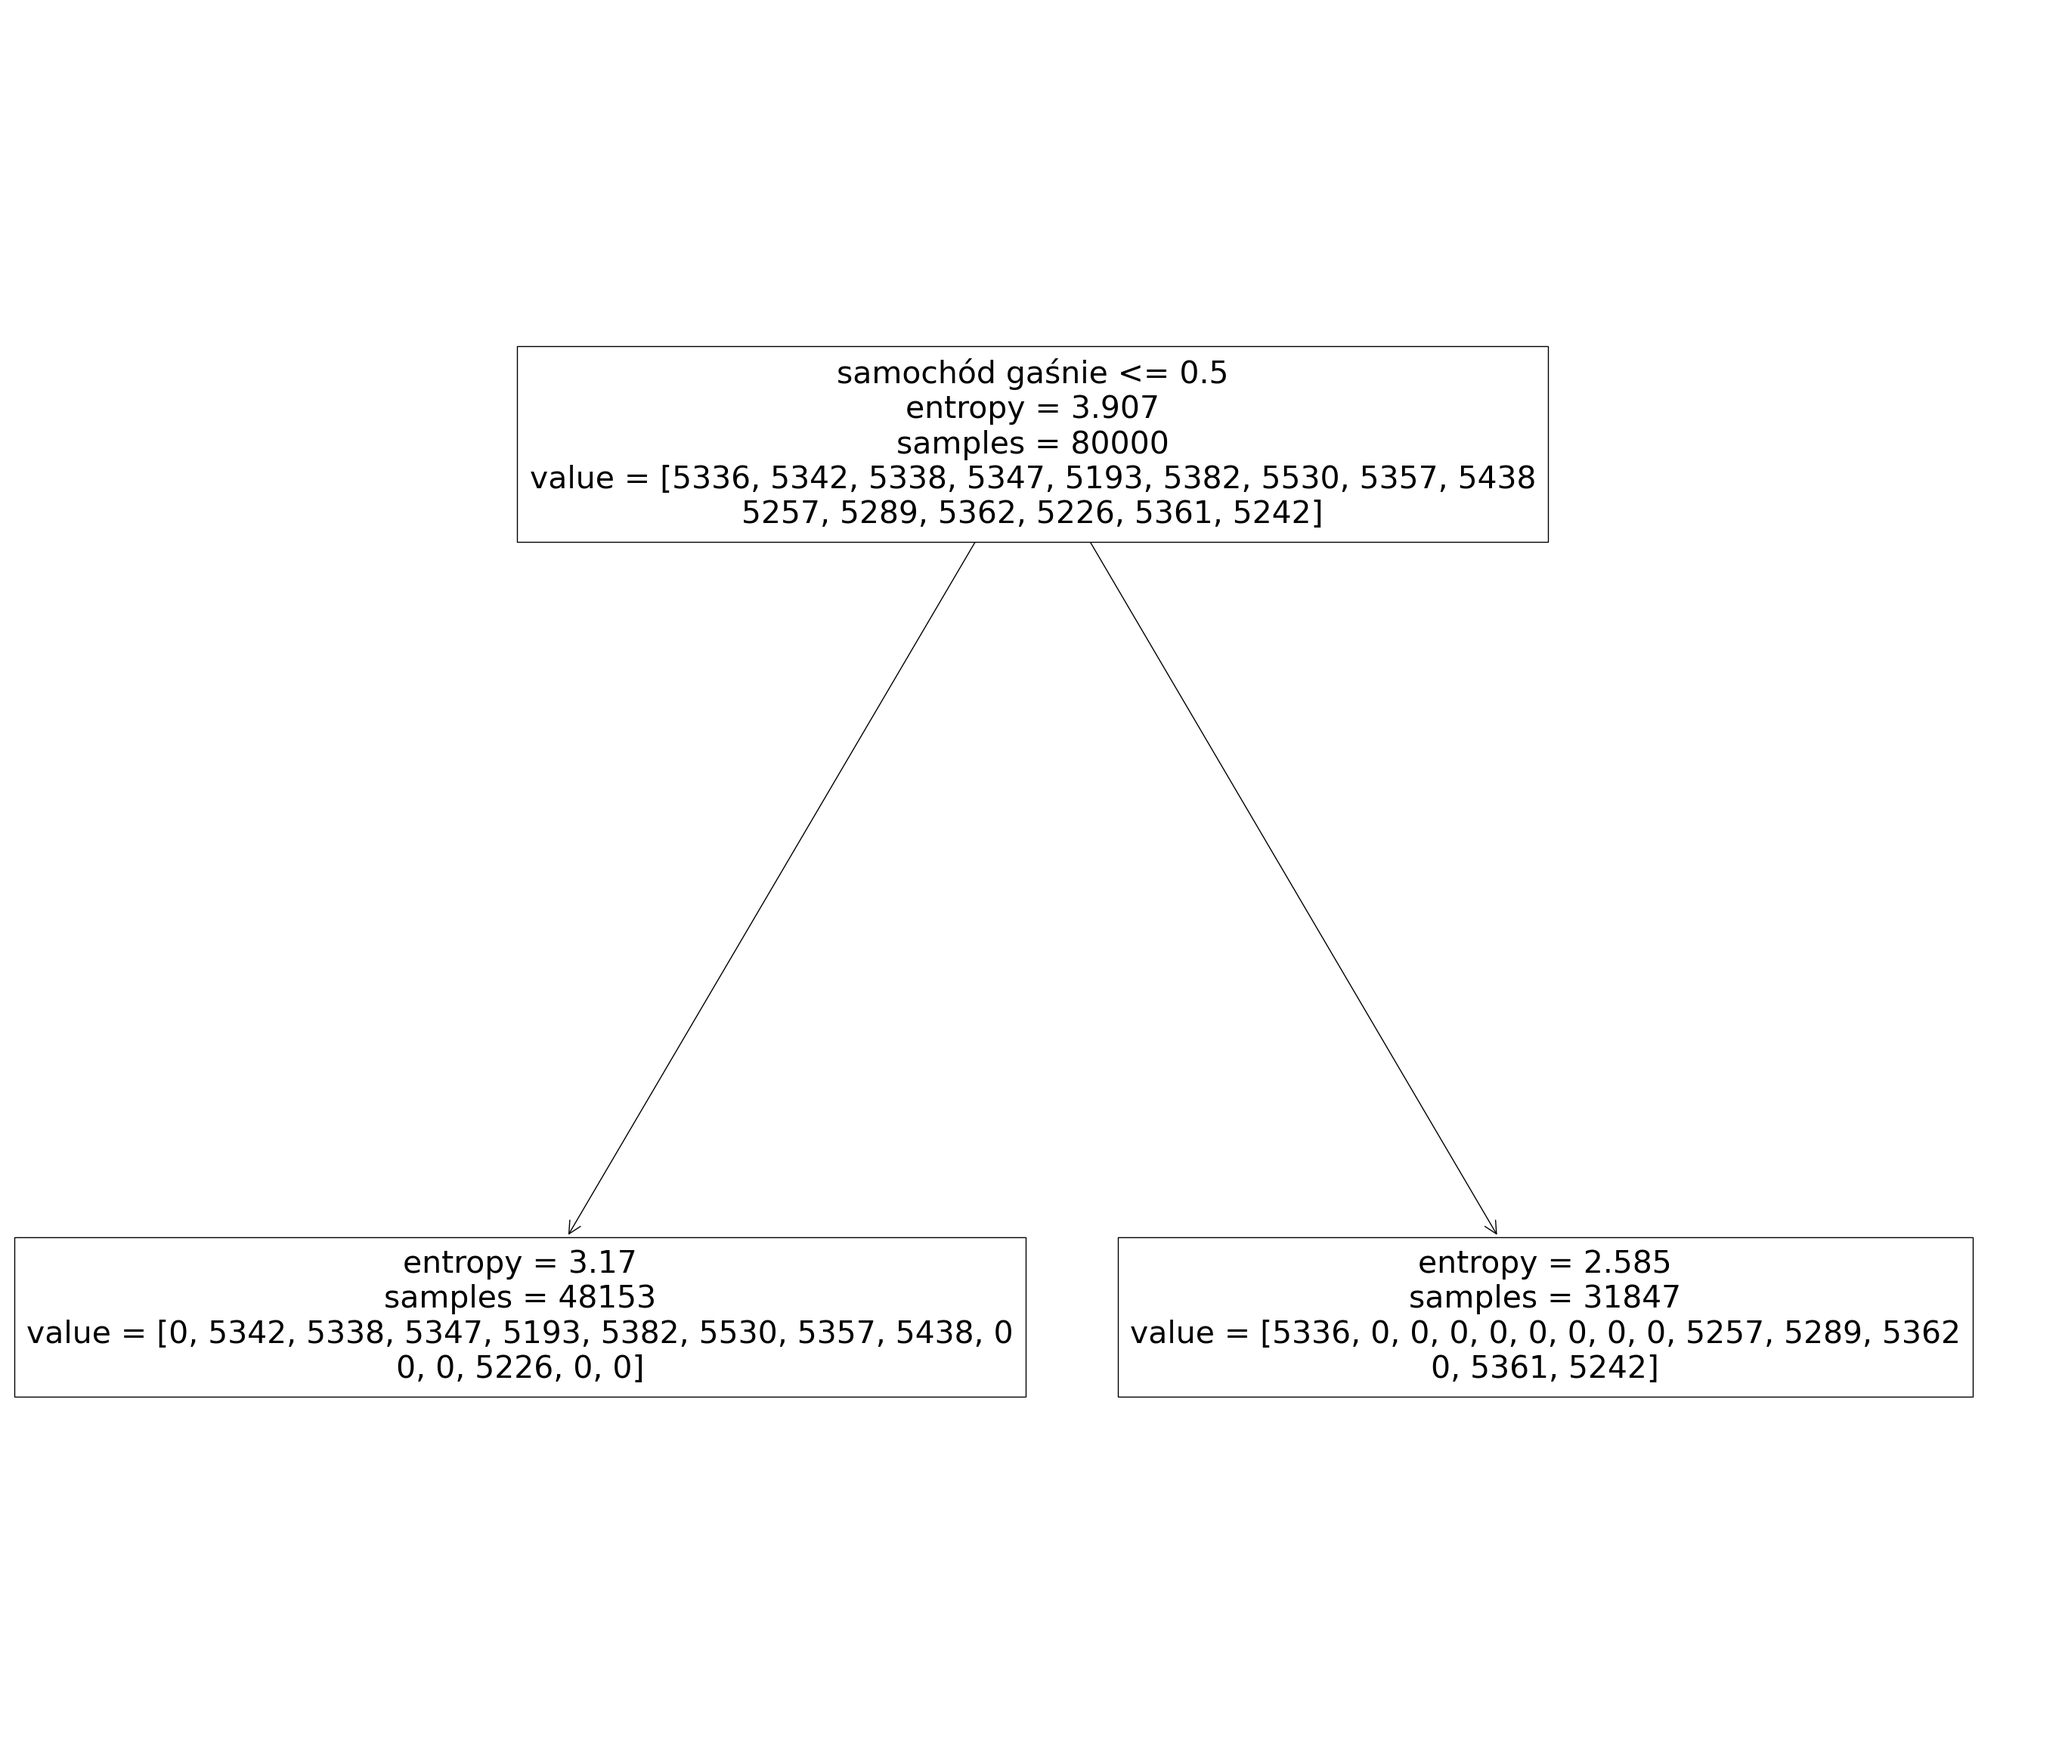
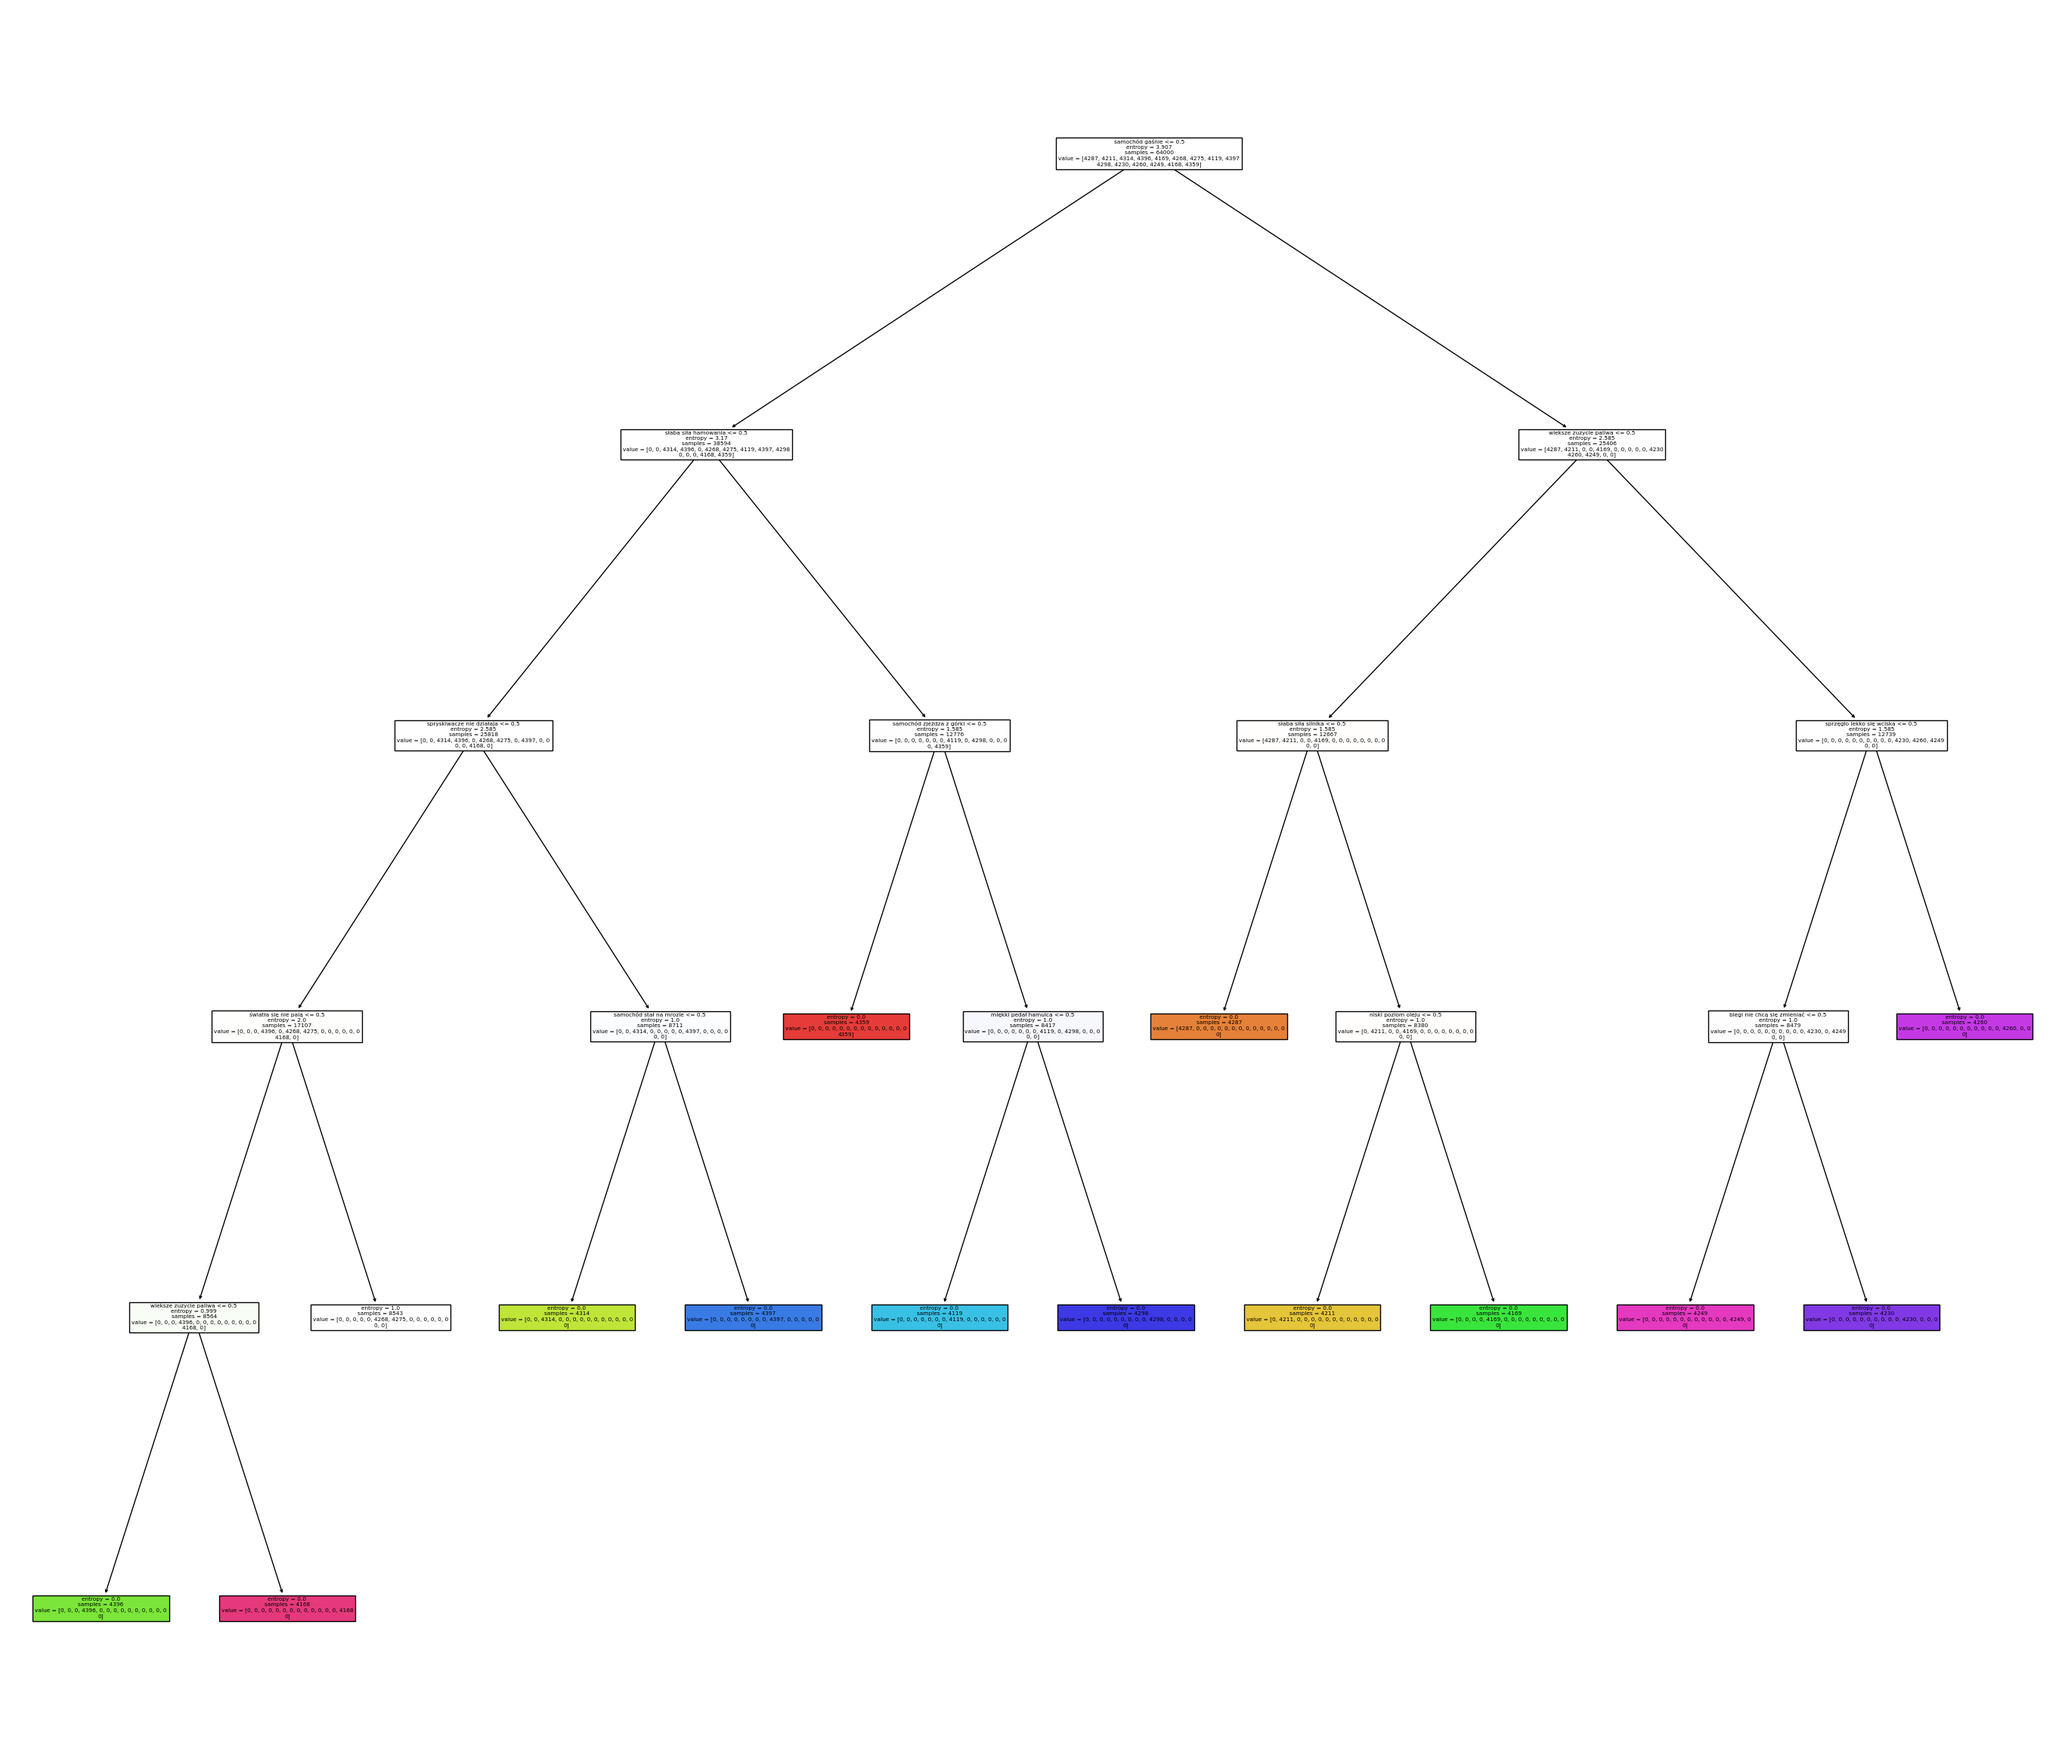
miany pietrasa

diff --git a/CarExpert.App/CarExpert.App/CarExpert.App.py b/CarExpert.App/CarExpert.App/CarExpert.App.py
@@ -1,9 +1,12 @@
-
-
 from tkinter import *
 import pandas as pd
 import numpy as np
 import matplotlib.pyplot as plt
+from sklearn.ensemble import RandomForestClassifier
+from sklearn.model_selection import train_test_split
+from sklearn import tree
+from sklearn.metrics import accuracy_score
+from sklearn.metrics import classification_report, confusion_matrix
 
 l1=[
 'rozrusznik nie kręci','światła się nie palą','opona łysa z jednej strony','samochód stał na mrozie','brak powietrza w kole','niski poziom oleju','biegi nie chcą się zmieniać','sprzęgło lekko się wciska','samochód zjeżdza z górki','głośny silnik','stuknięcia na górkach I dołkach','słaba siła hamowania','słaba siła silnika','wieksze zuzycie paliwa','miękki pedał hamulca','spryskiwacze nie działaja','wysoka temperatura silnika','samochód gaśnie'
@@ -13,99 +16,53 @@ disease=[
 'rozładowany akumulator','zepsuty rozrząd','zapowietrzone hamulce','przepalona żarówka','zła rozbieżność kół','słaby hamulec ręczny','brak płynu do spryskiwaczy','zamarznięty płyn do spryskiwaczy','przepalony bezpiecznik','dziurawe koło','peknięta miska olejowa','zepsuta skrzynia biegów','zepsute sprzęgło','zużyty filtr powietrza','awaria chłodnicy','brak benzyny'
 ]
 
+dataset = pd.read_csv("train.csv")
+X = dataset.drop('diagnoza', axis=1)
+y = dataset['diagnoza']
 
+X_train, X_test, y_train, y_test = train_test_split(X, y, test_size=0.20)
 
+classifier = tree.DecisionTreeClassifier(criterion="entropy", max_depth=10)
+classifier = classifier.fit(X_train, y_train)
+y_pred = classifier.predict(X_test)
 
-df=pd.read_csv("train.csv")
-
-i = 0;
-
-replacor = {}
-
-for d in disease:
-    replacor[d] = i
-    i+=1
-
-
-
-df.replace({'diagnoza':
-            replacor
-            },inplace=True)
-
-
-X= df[l1]
-
-y = df[["diagnoza"]]
-np.ravel(y)
-
-
-
-tr=pd.read_csv("test.csv")
-tr.replace({'diagnoza': replacor},inplace=True)
-
-X_test= tr[l1]
-y_test = tr[["diagnoza"]]
-np.ravel(y_test)
-
-
-
-from sklearn import tree
-from sklearn.metrics import accuracy_score
-clf = tree.DecisionTreeClassifier(criterion="entropy")   
-clf = clf.fit(X,y)
-y_pred=clf.predict(X_test)
-from sklearn.metrics import classification_report, confusion_matrix
 print(confusion_matrix(y_test, y_pred))
 print(classification_report(y_test, y_pred))
 
-text_representation = tree.export_text(clf)
-print(text_representation)
-fig = plt.figure(figsize=(35,30))
-_ = tree.plot_tree(clf, feature_names=l1, filled=True)
-
+fig = plt.figure(figsize=(35, 30))
+_ = tree.plot_tree(classifier, feature_names=l1, filled=True)
 plt.savefig('tree.png', bbox_inches='tight')
 
-def PredykcjaDrzewem():
+classifier_rf = RandomForestClassifier()
+classifier_rf = classifier_rf.fit(X_train, y_train)
 
 
-    l2=[]
-    for x in range(0,len(l1)):
-        l2.append(0)
+def drzewo():
+    predict = classifier.predict(x_values())
+    t1.insert(END, predict[0])
 
+
+def las_losowy():
+    predict = classifier_rf.predict(x_values())
+    t1.insert(END, predict[0])
+
+
+def x_values():
+    l2 = [0] * len(l1)
     t1.delete("1.0", END)
 
+    x_values = [Symptom1.get(), Symptom2.get(), Symptom3.get()]
 
-    psymptoms = [Symptom1.get(),Symptom2.get(),Symptom3.get()]
-
-    for k in range(0,len(l1)):
-        # print (k,)
-        for z in psymptoms:
-            if(z==l1[k]):
-                l2[k]=1
-
-    inputtest = [l2]
-    predict = clf.predict(inputtest)
-    predicted=predict[0]
-
-    h='no'
-    for a in range(0,len(disease)):
-        if(predicted == a):
-            h='yes'
-            break
-
-
-    if (h=='yes'):
-        t1.insert(END, disease[a])
-    else:
-        t1.insert(END, "Not Found")
-
-
+    for k in range(0, len(l1)):
+        for z in x_values:
+            if z == l1[k]:
+                l2[k] = 1
+    return [l2]
 
 
 root = Tk()
 root.configure(background='gray')
 
-# entry variables
 Symptom1 = StringVar()
 Symptom1.set(None)
 Symptom2 = StringVar()
@@ -114,9 +71,9 @@ Symptom3 = StringVar()
 Symptom3.set(None)
 
 
-# Heading
+
 w2 = Label(root, justify=CENTER, text="System ekspercki - Mechanik", fg="white", bg="gray")
-#w2.config(font=("Elephant", 30))
+
 w2.grid(row=1, column=0, columnspan=2, padx=100)
 
 S1Lb = Label(root, text="Objaw 1", fg="yellow", bg="black")
@@ -146,11 +103,10 @@ S3En = OptionMenu(root, Symptom3,*OPTIONS)
 S3En.grid(row=9, column=1)
 
 
-dst = Button(root, text="Zdiagnozuj", command=PredykcjaDrzewem,bg="green",fg="yellow")
+dst = Button(root, text="Zdiagnozuj", command=las_losowy, bg="green", fg="yellow")
 dst.grid(row=8, column=3)
 
 
-#textfileds
 t1 = Text(root, height=1, width=40,bg="orange",fg="black")
 t1.grid(row=15, column=1, padx=10)
 
